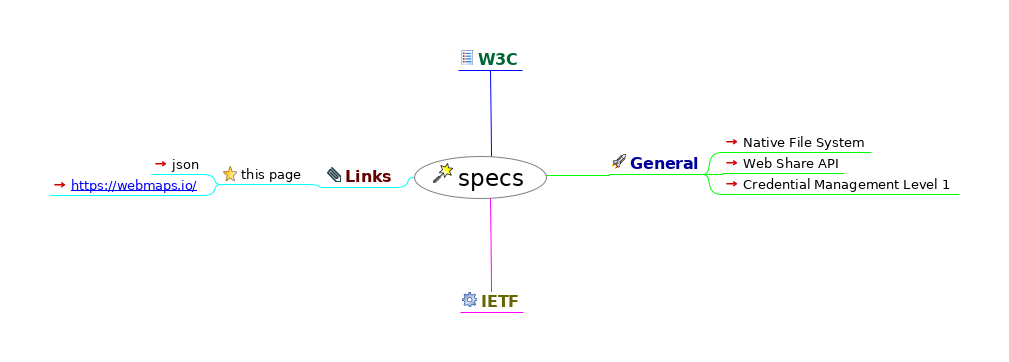
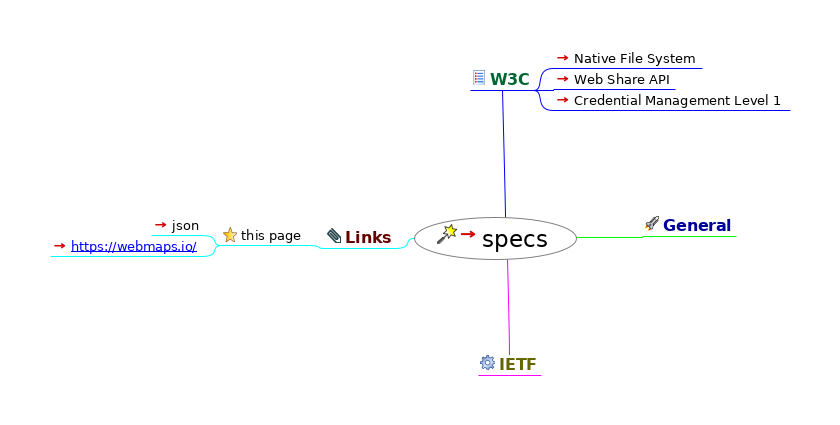
first release

diff --git a/index.html b/index.html
@@ -23,20 +23,20 @@
                    };
                };
           
-          --></script></head><body><h1>specs</h1><div style="width:96%;  padding:2%;  margin-bottom:10px;  border: 0px;  text-align:center;  vertical-align:center;"><img src="index.html_files/image.png" style="margin-bottom:10px; &#9;border: 0px; &#9;text-align:center; &#9;vertical-align:center;" alt="Imagemap" usemap="#fm_imagemap" /></div><map name="fm_imagemap" id="fm_imagemap"><area shape="rect" href="#FMID_237352286FM" alt="specs" title="specs" coords="414,156,547,199" />
-<area shape="rect" href="#FMID_176155545FM" alt="W3C" title="W3C" coords="458,50,522,70" />
-<area shape="rect" href="#FMID_527312312FM" alt="General" title="General" coords="609,154,703,174" />
-<area shape="rect" href="https://wicg.github.io/native-file-system/" alt="Native File System" title="Native File System" coords="722,134,871,152" />
-<area shape="rect" href="https://w3c.github.io/web-share/" alt="Web Share API" title="Web Share API" coords="722,155,844,173" />
-<area shape="rect" href="https://www.w3.org/TR/credential-management-1/" alt="Credential Management Level 1" title="Credential Management Level 1" coords="722,176,959,194" />
-<area shape="rect" href="#FMID_1810859973FM" alt="IETF" title="IETF" coords="460,292,523,312" />
-<area shape="rect" href="#FMID_777477932FM" alt="Links" title="Links" coords="325,167,395,187" />
-<area shape="rect" href="#FMID_117142409FM" alt="this page" title="this page" coords="221,166,306,184" />
-<area shape="rect" href="index.json" alt="json" title="json" coords="151,156,202,174" />
-<area shape="rect" href="https://webmaps.io/" alt="https://webmaps.io/" title="https://webmaps.io/" coords="50,177,202,195" />
+          --></script></head><body><h1>specs</h1><div style="width:96%;  padding:2%;  margin-bottom:10px;  border: 0px;  text-align:center;  vertical-align:center;"><img src="index.html_files/image.png" style="margin-bottom:10px; &#9;border: 0px; &#9;text-align:center; &#9;vertical-align:center;" alt="Imagemap" usemap="#fm_imagemap" /></div><map name="fm_imagemap" id="fm_imagemap"><area shape="rect" href="../tech/index.html" alt="specs" title="specs" coords="414,217,577,260" />
+<area shape="rect" href="#FMID_176155545FM" alt="W3C" title="W3C" coords="470,70,534,90" />
+<area shape="rect" href="https://wicg.github.io/native-file-system/" alt="Native File System" title="Native File System" coords="553,50,702,68" />
+<area shape="rect" href="https://w3c.github.io/web-share/" alt="Web Share API" title="Web Share API" coords="553,71,675,89" />
+<area shape="rect" href="https://www.w3.org/TR/credential-management-1/" alt="Credential Management Level 1" title="Credential Management Level 1" coords="553,92,790,110" />
+<area shape="rect" href="#FMID_527312312FM" alt="General" title="General" coords="642,216,736,236" />
+<area shape="rect" href="#FMID_1810859973FM" alt="IETF" title="IETF" coords="478,355,541,375" />
+<area shape="rect" href="#FMID_777477932FM" alt="Links" title="Links" coords="325,228,395,248" />
+<area shape="rect" href="#FMID_117142409FM" alt="this page" title="this page" coords="221,227,306,245" />
+<area shape="rect" href="index.json" alt="json" title="json" coords="151,217,202,235" />
+<area shape="rect" href="https://webmaps.io/" alt="https://webmaps.io/" title="https://webmaps.io/" coords="50,238,202,256" />
 </map>
 
-<div class="node"><img src="index.html_files/hide.png" class="hideshow" alt="hide" onClick="toggle(&quot;N65543&quot;)" id="imgN65543" /><img src="index.html_files/icons/wizard.svg" alt="wizard" /> <a id="FMID_237352286FM" /><div class="nodecontent" style="color:#000000;font-size:150%;">specs</div><div class="content" id="N65543"><div class="node"><img src="index.html_files/leaf.png" class="hideshow" alt="leaf" /><img src="index.html_files/icons/list.svg" alt="list" /> <a id="FMID_176155545FM" /><div class="nodecontent" style="color:#006633;font-size:100%;font-weight:bold;">W3C</div></div><div class="node"><img src="index.html_files/hide.png" class="hideshow" alt="hide" onClick="toggle(&quot;N66488&quot;)" id="imgN66488" /><img src="index.html_files/icons/launch.svg" alt="launch" /> <a id="FMID_527312312FM" /><div class="nodecontent" style="color:#000099;font-size:100%;font-weight:bold;">General</div><div class="content" id="N66488"><div class="node"><img src="index.html_files/leaf.png" class="hideshow" alt="leaf" /><a id="FMID_1944964332FM" /><div class="nodecontent" style="color:#000000;font-size:83%;"><a href="https://wicg.github.io/native-file-system/">Native File System</a> <a href="https://wicg.github.io/native-file-system/"><img src="index.html_files/ilink.png" alt="User Link" style="border-width:0" /></a></div></div><div class="node"><img src="index.html_files/leaf.png" class="hideshow" alt="leaf" /><a id="FMID_131281787FM" /><div class="nodecontent" style="color:#000000;font-size:83%;"><a href="https://w3c.github.io/web-share/">Web Share API</a> <a href="https://w3c.github.io/web-share/"><img src="index.html_files/ilink.png" alt="User Link" style="border-width:0" /></a></div></div><div class="node"><img src="index.html_files/leaf.png" class="hideshow" alt="leaf" /><a id="FMID_1415592675FM" /><div class="nodecontent" style="color:#000000;font-size:83%;"><a href="https://www.w3.org/TR/credential-management-1/">Credential Management Level 1</a> <a href="https://www.w3.org/TR/credential-management-1/"><img src="index.html_files/ilink.png" alt="User Link" style="border-width:0" /></a></div></div></div></div><div class="node"><img src="index.html_files/leaf.png" class="hideshow" alt="leaf" /><img src="index.html_files/icons/executable.svg" alt="executable" /> <a id="FMID_1810859973FM" /><div class="nodecontent" style="color:#666600;font-size:100%;font-weight:bold;">IETF</div></div><div class="node"><img src="index.html_files/hide.png" class="hideshow" alt="hide" onClick="toggle(&quot;N66687&quot;)" id="imgN66687" /><img src="index.html_files/icons/attach.svg" alt="attach" /> <a id="FMID_777477932FM" /><div class="nodecontent" style="color:#660000;font-size:100%;font-weight:bold;">Links</div><div class="content" id="N66687"><div class="node"><img src="index.html_files/hide.png" class="hideshow" alt="hide" onClick="toggle(&quot;N66728&quot;)" id="imgN66728" /><img src="index.html_files/icons/bookmark.svg" alt="bookmark" /> <a id="FMID_117142409FM" /><div class="nodecontent" style="color:#000000;font-size:83%;">this page</div><div class="content" id="N66728"><div class="node"><img src="index.html_files/leaf.png" class="hideshow" alt="leaf" /><a id="FMID_485260235FM" /><div class="nodecontent" style="color:#000000;font-size:83%;"><a href="index.json">json</a> <a href="index.json"><img src="index.html_files/ilink.png" alt="User Link" style="border-width:0" /></a></div></div><div class="node"><img src="index.html_files/leaf.png" class="hideshow" alt="leaf" /><a id="FMID_1630439828FM" /><div class="nodecontent" style="color:#000000;font-size:83%;"><a href="https://webmaps.io/">
+<div class="node"><img src="index.html_files/hide.png" class="hideshow" alt="hide" onClick="toggle(&quot;N65543&quot;)" id="imgN65543" /><img src="index.html_files/icons/wizard.svg" alt="wizard" /> <a id="FMID_237352286FM" /><div class="nodecontent" style="color:#000000;font-size:150%;"><a href="../tech/index.html">specs</a> <a href="../tech/index.html"><img src="index.html_files/ilink.png" alt="User Link" style="border-width:0" /></a></div><div class="content" id="N65543"><div class="node"><img src="index.html_files/hide.png" class="hideshow" alt="hide" onClick="toggle(&quot;N66445&quot;)" id="imgN66445" /><img src="index.html_files/icons/list.svg" alt="list" /> <a id="FMID_176155545FM" /><div class="nodecontent" style="color:#006633;font-size:100%;font-weight:bold;">W3C</div><div class="content" id="N66445"><div class="node"><img src="index.html_files/leaf.png" class="hideshow" alt="leaf" /><a id="FMID_1944964332FM" /><div class="nodecontent" style="color:#000000;font-size:83%;"><a href="https://wicg.github.io/native-file-system/">Native File System</a> <a href="https://wicg.github.io/native-file-system/"><img src="index.html_files/ilink.png" alt="User Link" style="border-width:0" /></a></div></div><div class="node"><img src="index.html_files/leaf.png" class="hideshow" alt="leaf" /><a id="FMID_131281787FM" /><div class="nodecontent" style="color:#000000;font-size:83%;"><a href="https://w3c.github.io/web-share/">Web Share API</a> <a href="https://w3c.github.io/web-share/"><img src="index.html_files/ilink.png" alt="User Link" style="border-width:0" /></a></div></div><div class="node"><img src="index.html_files/leaf.png" class="hideshow" alt="leaf" /><a id="FMID_1415592675FM" /><div class="nodecontent" style="color:#000000;font-size:83%;"><a href="https://www.w3.org/TR/credential-management-1/">Credential Management Level 1</a> <a href="https://www.w3.org/TR/credential-management-1/"><img src="index.html_files/ilink.png" alt="User Link" style="border-width:0" /></a></div></div></div></div><div class="node"><img src="index.html_files/leaf.png" class="hideshow" alt="leaf" /><img src="index.html_files/icons/launch.svg" alt="launch" /> <a id="FMID_527312312FM" /><div class="nodecontent" style="color:#000099;font-size:100%;font-weight:bold;">General</div></div><div class="node"><img src="index.html_files/leaf.png" class="hideshow" alt="leaf" /><img src="index.html_files/icons/executable.svg" alt="executable" /> <a id="FMID_1810859973FM" /><div class="nodecontent" style="color:#666600;font-size:100%;font-weight:bold;">IETF</div></div><div class="node"><img src="index.html_files/hide.png" class="hideshow" alt="hide" onClick="toggle(&quot;N66688&quot;)" id="imgN66688" /><img src="index.html_files/icons/attach.svg" alt="attach" /> <a id="FMID_777477932FM" /><div class="nodecontent" style="color:#660000;font-size:100%;font-weight:bold;">Links</div><div class="content" id="N66688"><div class="node"><img src="index.html_files/hide.png" class="hideshow" alt="hide" onClick="toggle(&quot;N66729&quot;)" id="imgN66729" /><img src="index.html_files/icons/bookmark.svg" alt="bookmark" /> <a id="FMID_117142409FM" /><div class="nodecontent" style="color:#000000;font-size:83%;">this page</div><div class="content" id="N66729"><div class="node"><img src="index.html_files/leaf.png" class="hideshow" alt="leaf" /><a id="FMID_485260235FM" /><div class="nodecontent" style="color:#000000;font-size:83%;"><a href="index.json">json</a> <a href="index.json"><img src="index.html_files/ilink.png" alt="User Link" style="border-width:0" /></a></div></div><div class="node"><img src="index.html_files/leaf.png" class="hideshow" alt="leaf" /><a id="FMID_1630439828FM" /><div class="nodecontent" style="color:#000000;font-size:83%;"><a href="https://webmaps.io/">
     <a http-equiv="content-type" content="text/html; charset=utf-8" href="https://webmaps.io/">https://webmaps.io/</a>
   </a> <a href="https://webmaps.io/"><img src="index.html_files/ilink.png" alt="User Link" style="border-width:0" /></a></div></div></div></div></div></div></div></div>
 </body></html>

diff --git a/index.mm b/index.mm
@@ -1,6 +1,6 @@
 <map version="freeplane 1.7.0">
 <!--To view this file, download free mind mapping software Freeplane from http://freeplane.sourceforge.net -->
-<node TEXT="specs" FOLDED="false" ID="ID_237352286" CREATED="1570576809840" MODIFIED="1574594504187" ICON_SIZE="16.0 pt" STYLE="oval">
+<node TEXT="specs" FOLDED="false" ID="ID_237352286" CREATED="1570576809840" MODIFIED="1574594799014" ICON_SIZE="16.0 pt" LINK="../tech/index.mm" STYLE="oval">
 <icon BUILTIN="wizard"/>
 <font SIZE="18"/>
 <hook NAME="MapStyle">
@@ -65,20 +65,20 @@
 </map_styles>
 </hook>
 <hook NAME="AutomaticEdgeColor" COUNTER="16" RULE="ON_BRANCH_CREATION"/>
-<node TEXT="W3C" POSITION="right" ID="ID_176155545" CREATED="1572063754537" MODIFIED="1574594498182" HGAP_QUANTITY="-66.99999758601194 pt" VSHIFT_QUANTITY="-46.499998614192044 pt" COLOR="#006633">
+<node TEXT="W3C" POSITION="right" ID="ID_176155545" CREATED="1572063754537" MODIFIED="1574594789126" HGAP_QUANTITY="-80.4999971836806 pt" VSHIFT_QUANTITY="-77.99999767541891 pt" COLOR="#006633">
 <icon BUILTIN="list"/>
 <font SIZE="12" BOLD="true"/>
 <edge COLOR="#0000ff"/>
-</node>
-<node TEXT="General" POSITION="right" ID="ID_527312312" CREATED="1572063758657" MODIFIED="1574594504186" HGAP_QUANTITY="46.24999903887513 pt" VSHIFT_QUANTITY="-11.24999966472388 pt" COLOR="#000099">
-<icon BUILTIN="launch"/>
-<font SIZE="12" BOLD="true"/>
-<edge COLOR="#00ff00"/>
 <node TEXT="Native File System" ID="ID_1944964332" CREATED="1573041667364" MODIFIED="1573041678745" LINK="https://wicg.github.io/native-file-system/"/>
 <node TEXT="Web Share API" ID="ID_131281787" CREATED="1573042137566" MODIFIED="1573042142561" LINK="https://w3c.github.io/web-share/"/>
 <node TEXT="Credential Management Level 1" ID="ID_1415592675" CREATED="1573042176019" MODIFIED="1573042185242" LINK="https://www.w3.org/TR/credential-management-1/"/>
 </node>
-<node TEXT="IETF" POSITION="right" ID="ID_1810859973" CREATED="1572063767900" MODIFIED="1574594500773" HGAP_QUANTITY="-65.49999763071544 pt" VSHIFT_QUANTITY="60.74999818950897 pt" COLOR="#666600">
+<node TEXT="General" POSITION="right" ID="ID_527312312" CREATED="1572063758657" MODIFIED="1574594799013" HGAP_QUANTITY="48.499998971819906 pt" VSHIFT_QUANTITY="-25.4999992400408 pt" COLOR="#000099">
+<icon BUILTIN="launch"/>
+<font SIZE="12" BOLD="true"/>
+<edge COLOR="#00ff00"/>
+</node>
+<node TEXT="IETF" POSITION="right" ID="ID_1810859973" CREATED="1572063767900" MODIFIED="1574594775107" HGAP_QUANTITY="-74.49999736249455 pt" VSHIFT_QUANTITY="62.24999814480549 pt" COLOR="#666600">
 <icon BUILTIN="executable"/>
 <font SIZE="12" BOLD="true"/>
 <edge COLOR="#ff00ff"/>
